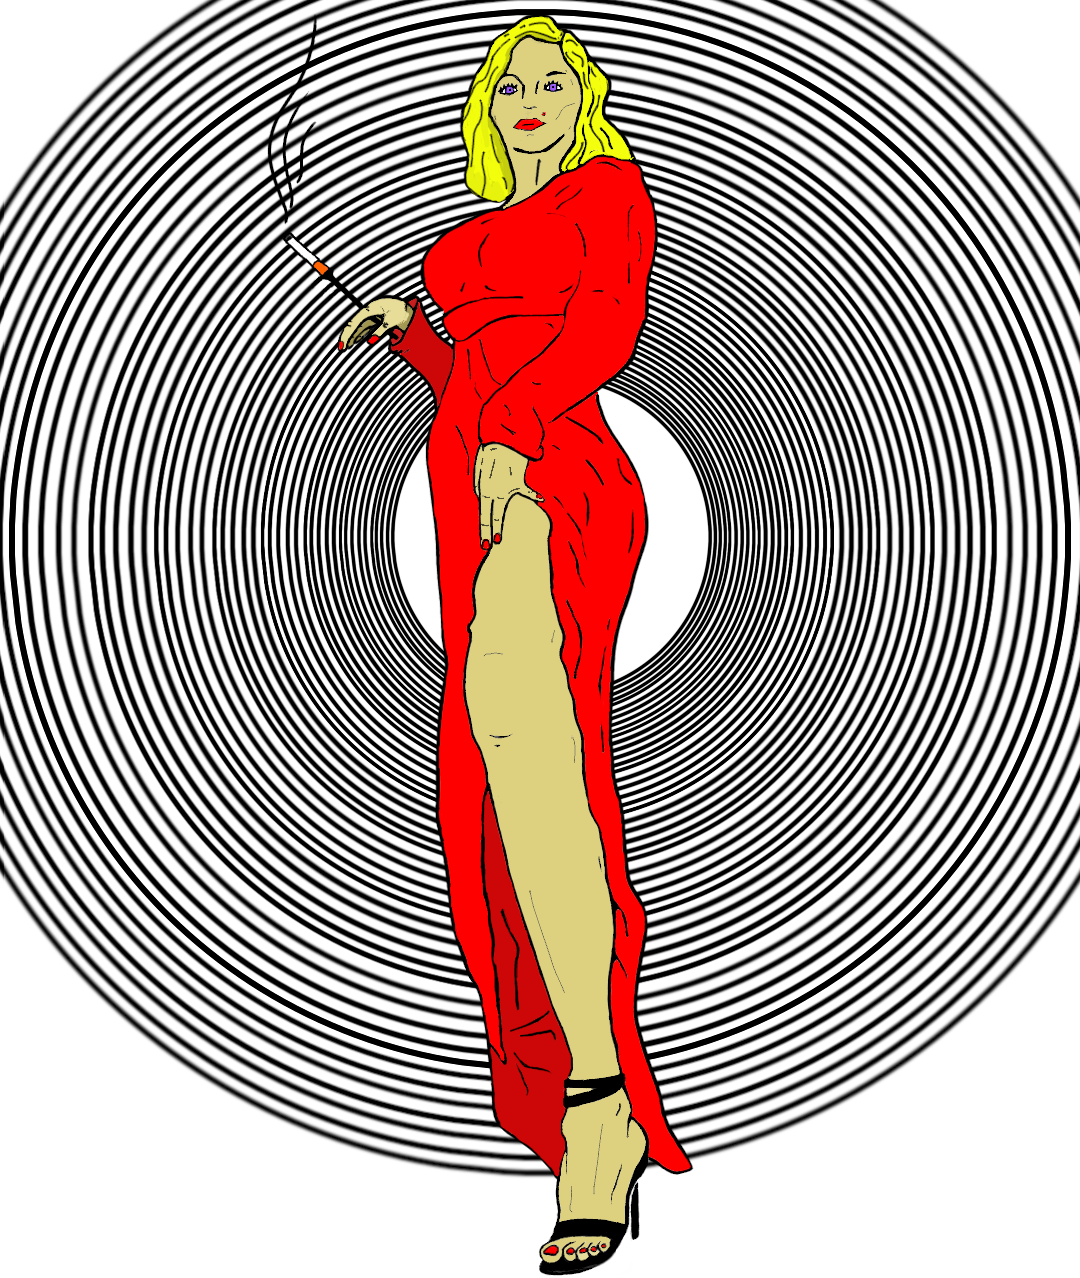
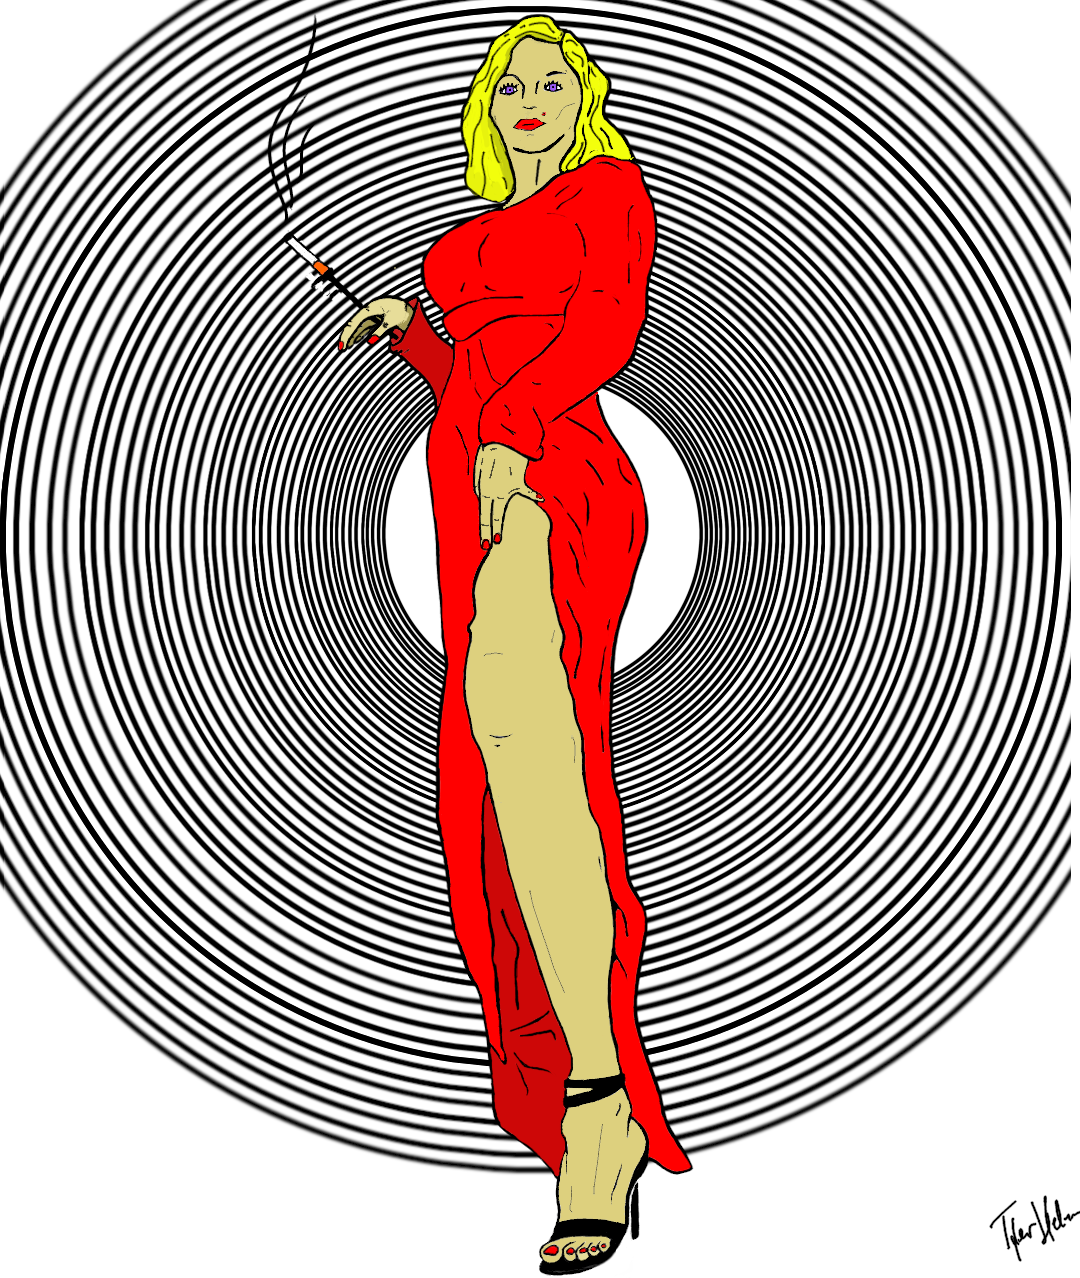
adding signature

diff --git a/src/eventbus.js b/src/eventbus.js
@@ -12,25 +12,25 @@ export const Eventbus = new Vue({
                 },
                 {
                   title: 'Pagliacci',
-                  imagePath: '/static/pagliacci2.jpg',
+                  imagePath: '/static/pagliacci.png',
                   id: 1,
                   orientation:'landscape'
                 },
                 {
                   title: 'Form Ferd',
-                  imagePath: '/static/THelmff.jpg',
+                  imagePath: '/static/form_ferd.jpg',
                   id: 2,
                   orientation:'landscape'
                 },
                 {
                   title: 'Danger - Life',
-                  imagePath: '/static/danger-life.jpeg',
+                  imagePath: '/static/danger-life.png',
                   id: 3,
                   orientation:'landscape'
                 },
                 {
                   title: 'Astro Naut',
-                  imagePath: '/static/astronaut.jpg',
+                  imagePath: '/static/astro_naut.png',
                   id: 0,
                   orientation:'landscape'
                 }
